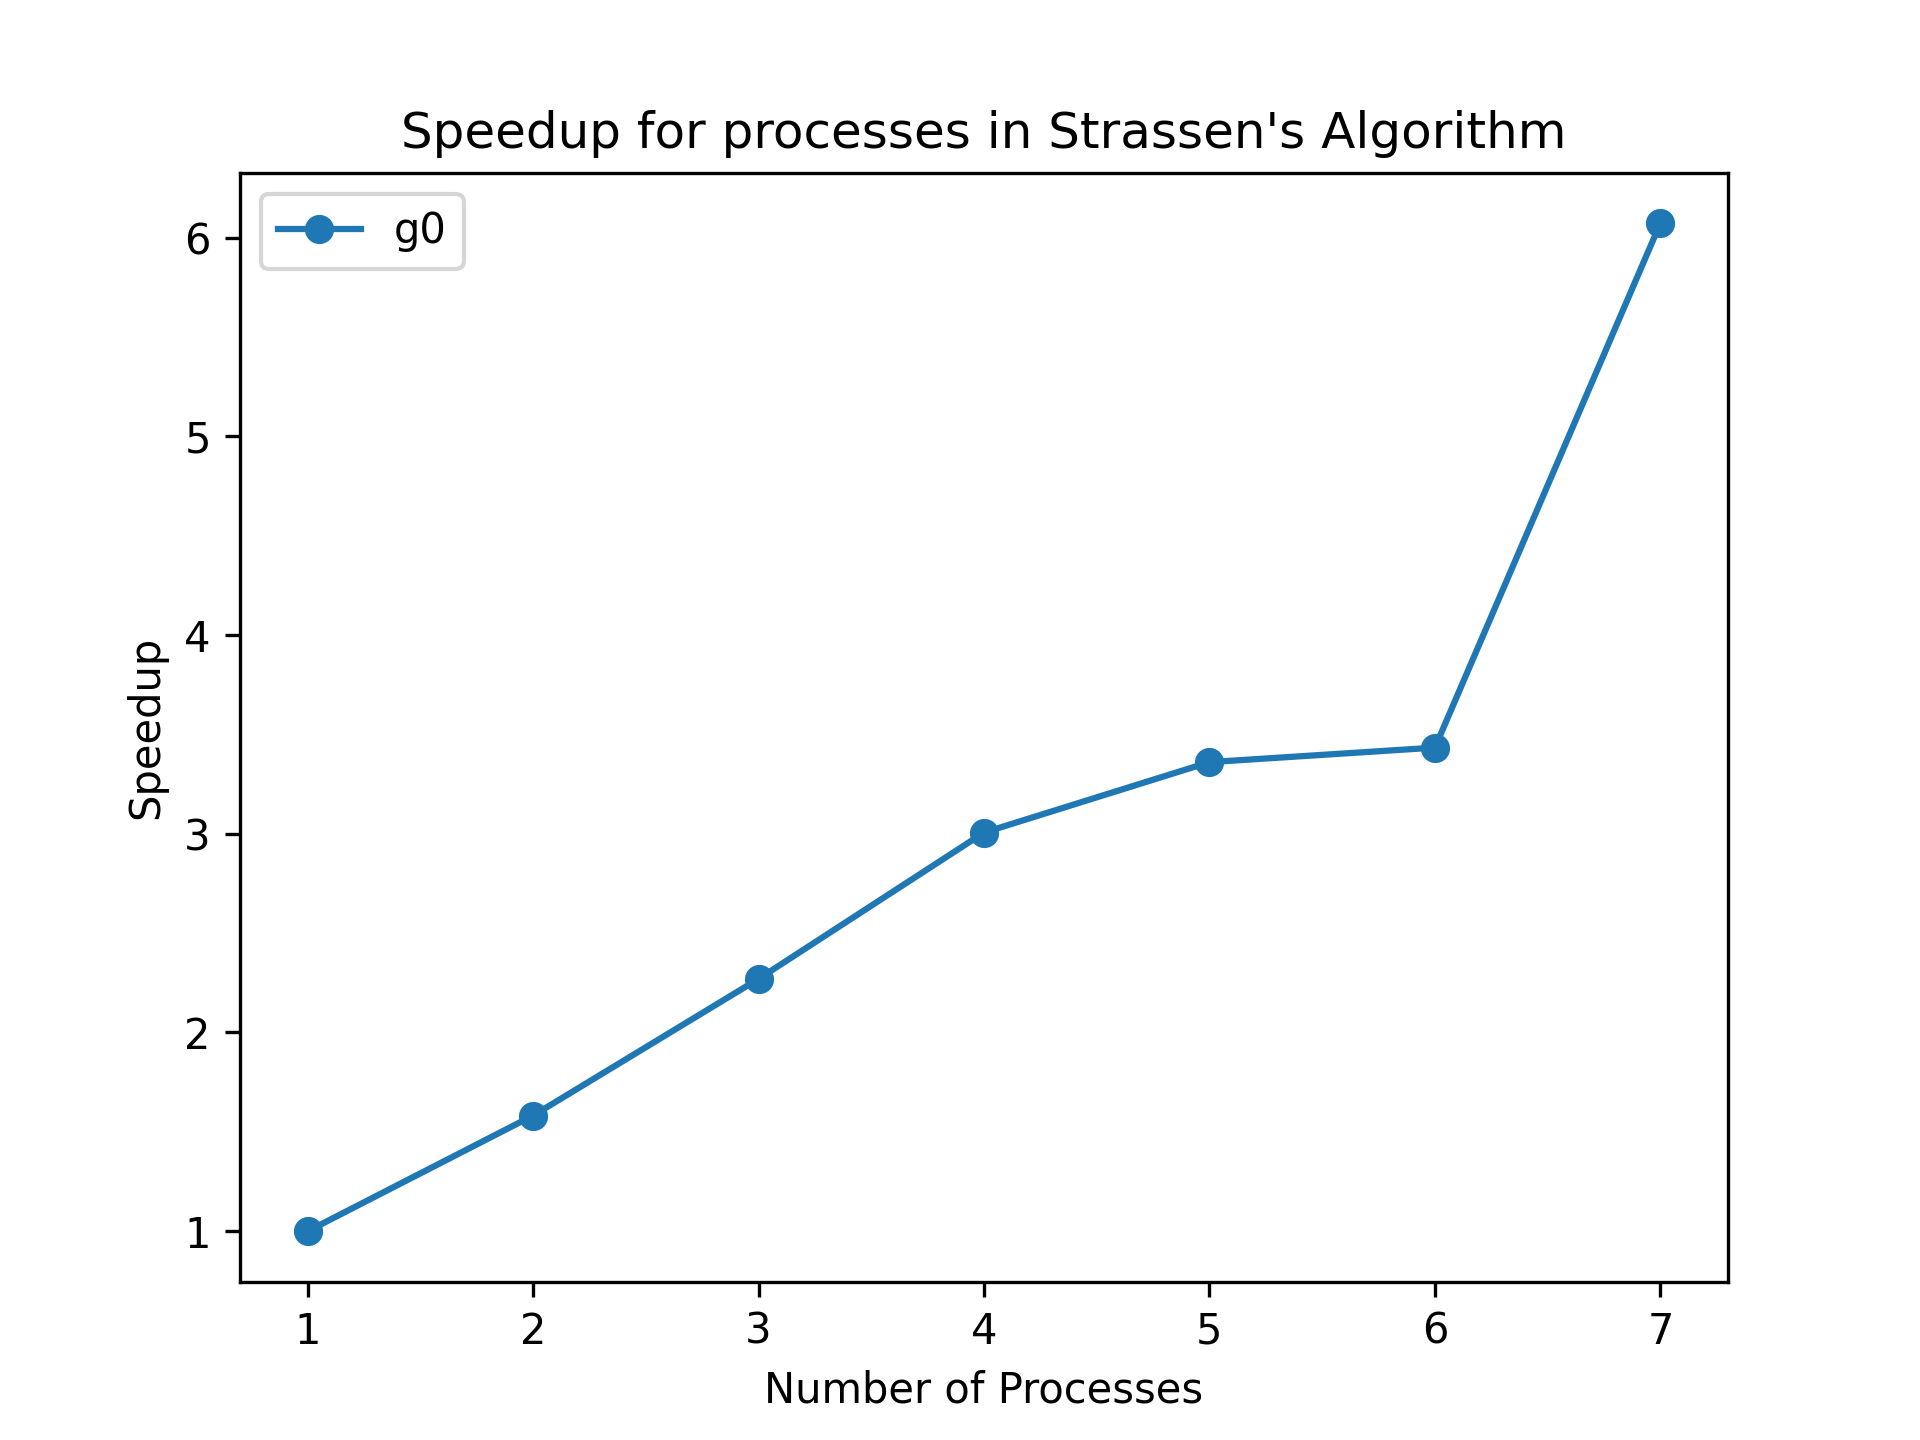
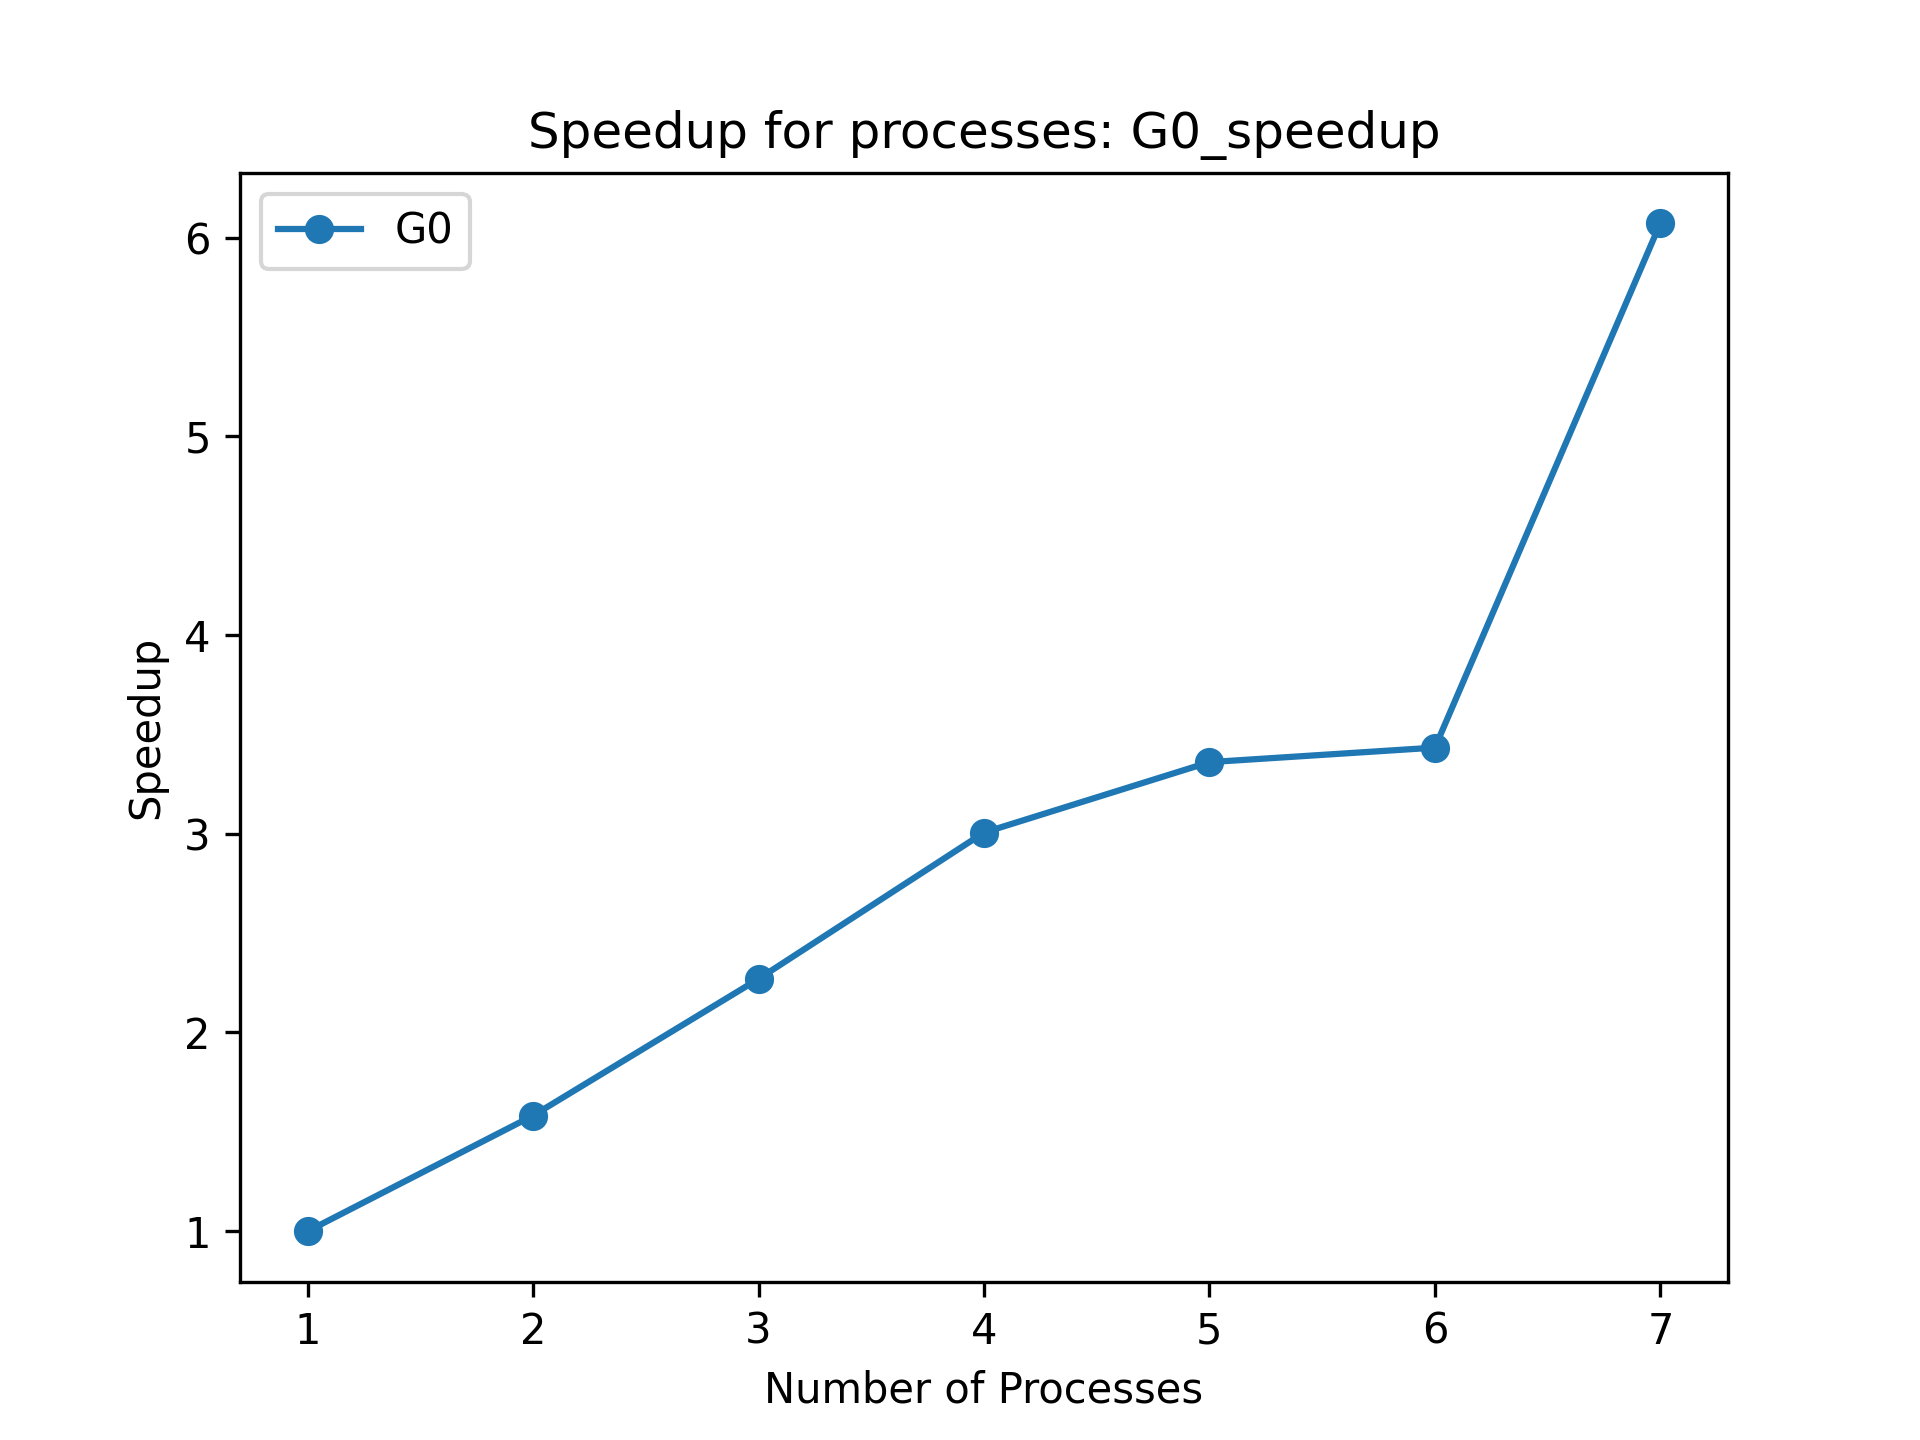
update

Changed region(s): [[0.1875, 0.0625, 0.8125, 0.1875]]

diff --git a/utils/draw_speedup.py b/utils/draw_speedup.py
@@ -23,7 +23,7 @@ def speedup_plot(speedups, labels, path, filename="speedup_plot.png"):
 
     plt.xlabel("Number of Processes")
     plt.ylabel("Speedup")
-    plt.title("Speedup for processes")
+    plt.title("Speedup for processes: " + filename.split(".")[0])
     plt.legend(loc='best')
     plt.savefig(path + filename, dpi=300)
 
@@ -34,8 +34,8 @@ def draw_g0(data, path):
     speedup = [data[0] / data[i] for i in range(0, len(data))]
     print(speedup)
     speedups = [speedup]
-    labels = ['g0']
-    speedup_plot(speedups, labels, path, filename="g0_speedup.png")
+    labels = ['G0']
+    speedup_plot(speedups, labels, path, filename="G0_speedup.png")
 
 
 def draw_pair(data, path):
@@ -45,7 +45,15 @@ def draw_pair(data, path):
     speedup_plot(speedups, labels, path, filename="pair_speedup.png")
 
 
-def draw_cumulate(data, path):
+def draw_group(data, path):
+    speedups = [[data[0] / data[i] for i in range(0, len(data) // 2)],
+                [data[len(data) // 2] / data[i] for i in range(len(data) // 2, len(data))]]
+    labels = ['All groups', 'group0']
+    print(len(speedups))
+    speedup_plot(speedups, labels, path, filename="group_speedup.png")
+
+
+def draw_cumulate_pair(data, path):
     speedups = [[data[i][0] / data[i][j] for j in range(len(data[i]) // 2, len(data[i]))] for i in range(0, len(data))]
     labels = ['pair0-0', 'pair0-1', 'pair0-2', 'pair0-3', 'pair0-4', 'pair0-5', 'pair0-6', 'pair0-7==G0']
     print(len(speedups))

diff --git a/matricx_multiply_algorithms/strassen/draw_lines.py b/matricx_multiply_algorithms/strassen/draw_lines.py
@@ -8,7 +8,7 @@
     @github : https://github.com/frankRenlf
     @Description : draw the speedup plot strassen
 """
-from utils.draw_speedup import draw_g0, draw_pair, draw_cumulate
+from utils.draw_speedup import draw_g0, draw_pair, draw_cumulate_pair, draw_group
 
 
 def get_data():
@@ -100,11 +100,14 @@ if __name__ == "__main__":
             4042.34250, 2534.80597, 1772.02916, 1355.47332, 1196.58191, 1169.04783, 654.47033, 4704.55467,
             2974.09014, 2072.89184, 1565.0854, 1400.00070, 1370.22923, 774.75576]
     ]
+    data_groups = [47022.2099, 29741.12373, 20733.9221, 15654.51284, 14019.91628, 13689.06446, 7471.14211]
     data = [
         data_g0,
         data_pair,
-        data_cumulate
+        data_cumulate,
+        data_groups + data_g0
     ]
     draw_g0(data[0], 'data/')
     draw_pair(data[1], 'data/')
-    draw_cumulate(data[2], 'data/')
+    draw_cumulate_pair(data[2], 'data/')
+    draw_group(data[3], 'data/')
